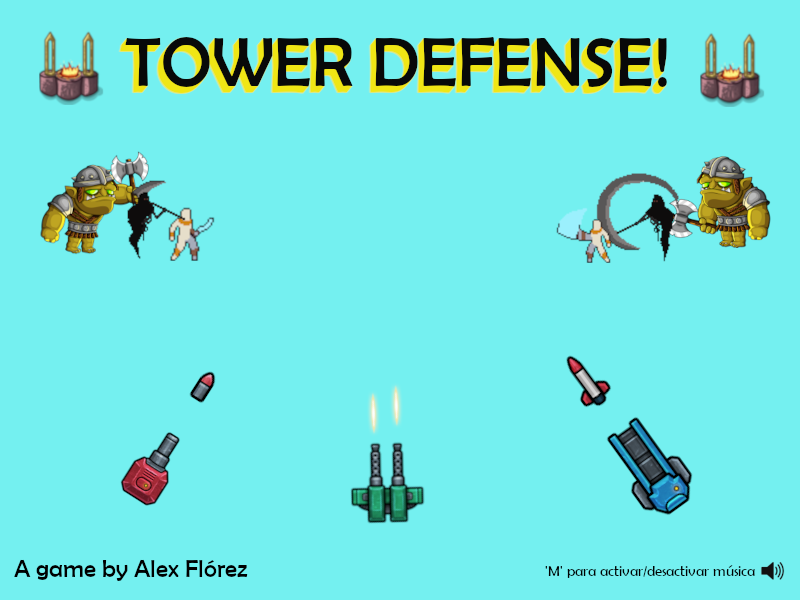
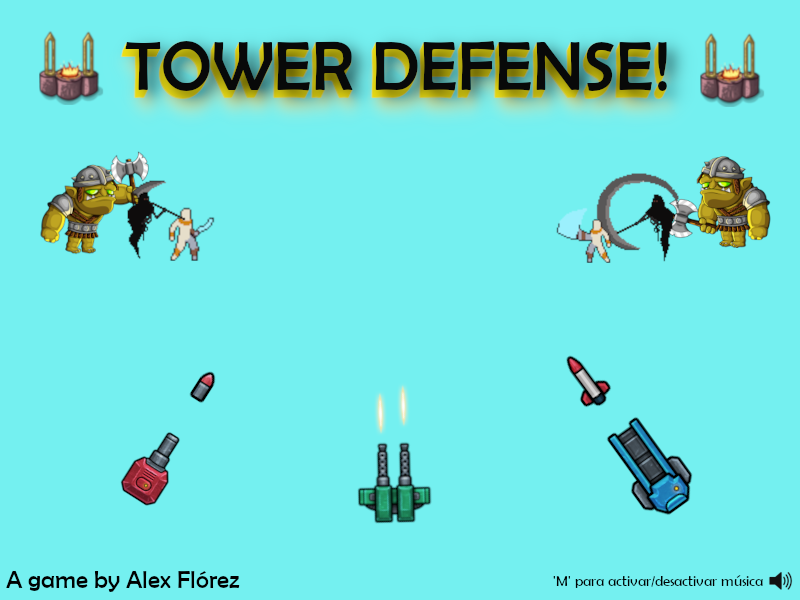
Cambiando fondo y tiles del camino. Nuevos sonidos

diff --git a/Juego1/TowerDefense/Tower.cpp b/Juego1/TowerDefense/Tower.cpp
@@ -12,13 +12,13 @@ Tower::Tower(string filename, float x, float y, Game* game)
 	this->powerUpEffectAnimation = new Animation("res/GreenSlash.png", 64, 64, 256, 64, 1, 4, false, game);
 	this->healingAnimation = new Animation("res/healing_anim.png", 70, 70, 350, 70, 2, 5, false, game);
 
-	this->destroyedGround = new Actor("res/destroyedGround.png", x, y - 20, 70, 50, game);
+	this->destroyedGround = new Actor("res/destroyedGround.png", x, y - 20, 40, 40, game);
 	this->repairIcon = new UIRepairIcon(x, y-34, TOWER_REPAIR_COST, game);
 	this->applyingPowerUp = false;
 	this->isHealing = false;
 
-	this->hitSound = new SoundEffect("res/sounds/tower_hit.wav");
-	this->explosionSound = new SoundEffect("res/sounds/tower_explosion.wav");
+	// Instanciar el sonido de impacto, aunque realmente solo se reproduce el sonido de ataque de los enemigos.
+	this->hitSound = new SoundEffect("res/sounds/tower_hit.wav"); 
 }
 
 
@@ -76,5 +76,5 @@ void Tower::repair() {
 void Tower::hit(float damage)
 {
 	this->health -= damage;
-	this->hitSound->play();
+
 }

diff --git a/Juego1/TowerDefense/TowerManager.cpp b/Juego1/TowerDefense/TowerManager.cpp
@@ -3,6 +3,7 @@
 TowerManager::TowerManager(Game* game)
 {
 	this->game = game;
+	this->explosionSound = new SoundEffect("res/sounds/tower_explosion.wav");
 }
 
 void TowerManager::draw()
@@ -23,6 +24,7 @@ Tower* TowerManager::getTower(float x, float y)
 
 void TowerManager::add(int key, Tower* tower)
 {
+	tower->explosionSound = this->explosionSound;
 	this->towers[key] = tower;
 }
 

diff --git a/Juego1/TowerDefense/BulletProjectileFactory.cpp b/Juego1/TowerDefense/BulletProjectileFactory.cpp
@@ -3,9 +3,12 @@
 BulletProjectileFactory::BulletProjectileFactory(Game* game)
 	: ProjectileFactory(game)
 {
+	this->hitSound = new SoundEffect("res/sounds/enemyHit.wav");
 }
 
 Projectile* BulletProjectileFactory::createProjectile()
 {
-	return new BulletProjectile(0, 0, game);
+	Projectile* p = new BulletProjectile(0, 0, game);
+	p->hitSound = this->hitSound;
+	return p;
 }

diff --git a/Juego1/TowerDefense/MapManager.cpp b/Juego1/TowerDefense/MapManager.cpp
@@ -100,7 +100,7 @@ void MapManager::loadMapObject(char character, int i, int j) {
 		case '1':
 		case '2': 
 		case '3': {
-			Tile* tile = new Tile("res/caja_madera.png", x, y, game);
+			Tile* tile = new Tile("res/pathTile.png", x, y, game);
 			tile->y = tile->y - tile->height / 2;
 			pathTiles.push_back(tile);
 			int pathId = character - '0';

diff --git a/Juego1/TowerDefense/MGBulletFactory.cpp b/Juego1/TowerDefense/MGBulletFactory.cpp
@@ -3,9 +3,12 @@
 MGBulletFactory::MGBulletFactory(Game* game)
 	: ProjectileFactory(game)
 {
+	this->hitSound = new SoundEffect("res/sounds/enemyHit.wav");
 }
 
 Projectile* MGBulletFactory::createProjectile()
 {
-	return new MGBullet(0, 0, game);
+	Projectile* p = new MGBullet(0, 0, game);
+	p->hitSound = this->hitSound;
+	return p;
 }

diff --git a/Juego1/TowerDefense/MenuLayer.cpp b/Juego1/TowerDefense/MenuLayer.cpp
@@ -14,6 +14,8 @@ void MenuLayer::init() {
 	if (Mix_OpenAudio(44100, MIX_DEFAULT_FORMAT, 2, 4096)) {
 		cout << "Error: " << Mix_GetError() << endl;
 	}
+	// Volumen
+	Mix_VolumeMusic(10);
 
 	// Fondo normal sin velocidad
 	background = new Background("res/TowerDefenseMenu.png", WIDTH * 0.5, HEIGHT * 0.5, game);

diff --git a/Juego1/TowerDefense/BulletProjectileFactory.h b/Juego1/TowerDefense/BulletProjectileFactory.h
@@ -3,11 +3,14 @@
 #include "Game.h"
 #include "Projectile.h"
 #include "BulletProjectile.h"
+#include "SoundEffect.h"
 
 class BulletProjectileFactory : public ProjectileFactory
 {
 public:
 	BulletProjectileFactory(Game* game);
 	Projectile* createProjectile() override;
+
+	SoundEffect* hitSound;
 };
 

diff --git a/Juego1/TowerDefense/MGBulletFactory.h b/Juego1/TowerDefense/MGBulletFactory.h
@@ -3,11 +3,14 @@
 #include "Game.h"
 #include "Projectile.h"
 #include "MGBullet.h"
+#include "SoundEffect.h"
 
 class MGBulletFactory : public ProjectileFactory
 {
 public:
 	MGBulletFactory(Game* game);
 	Projectile* createProjectile() override;
+
+	SoundEffect* hitSound;
 };
 

diff --git a/Juego1/TowerDefense/SoundEffect.cpp b/Juego1/TowerDefense/SoundEffect.cpp
@@ -3,6 +3,7 @@
 SoundEffect::SoundEffect(string filename)
 {
 	this->chunk = Mix_LoadWAV(filename.c_str());
+	Mix_Volume(-1, 25); // Volumen de los efectos
 }
 
 void SoundEffect::play()
